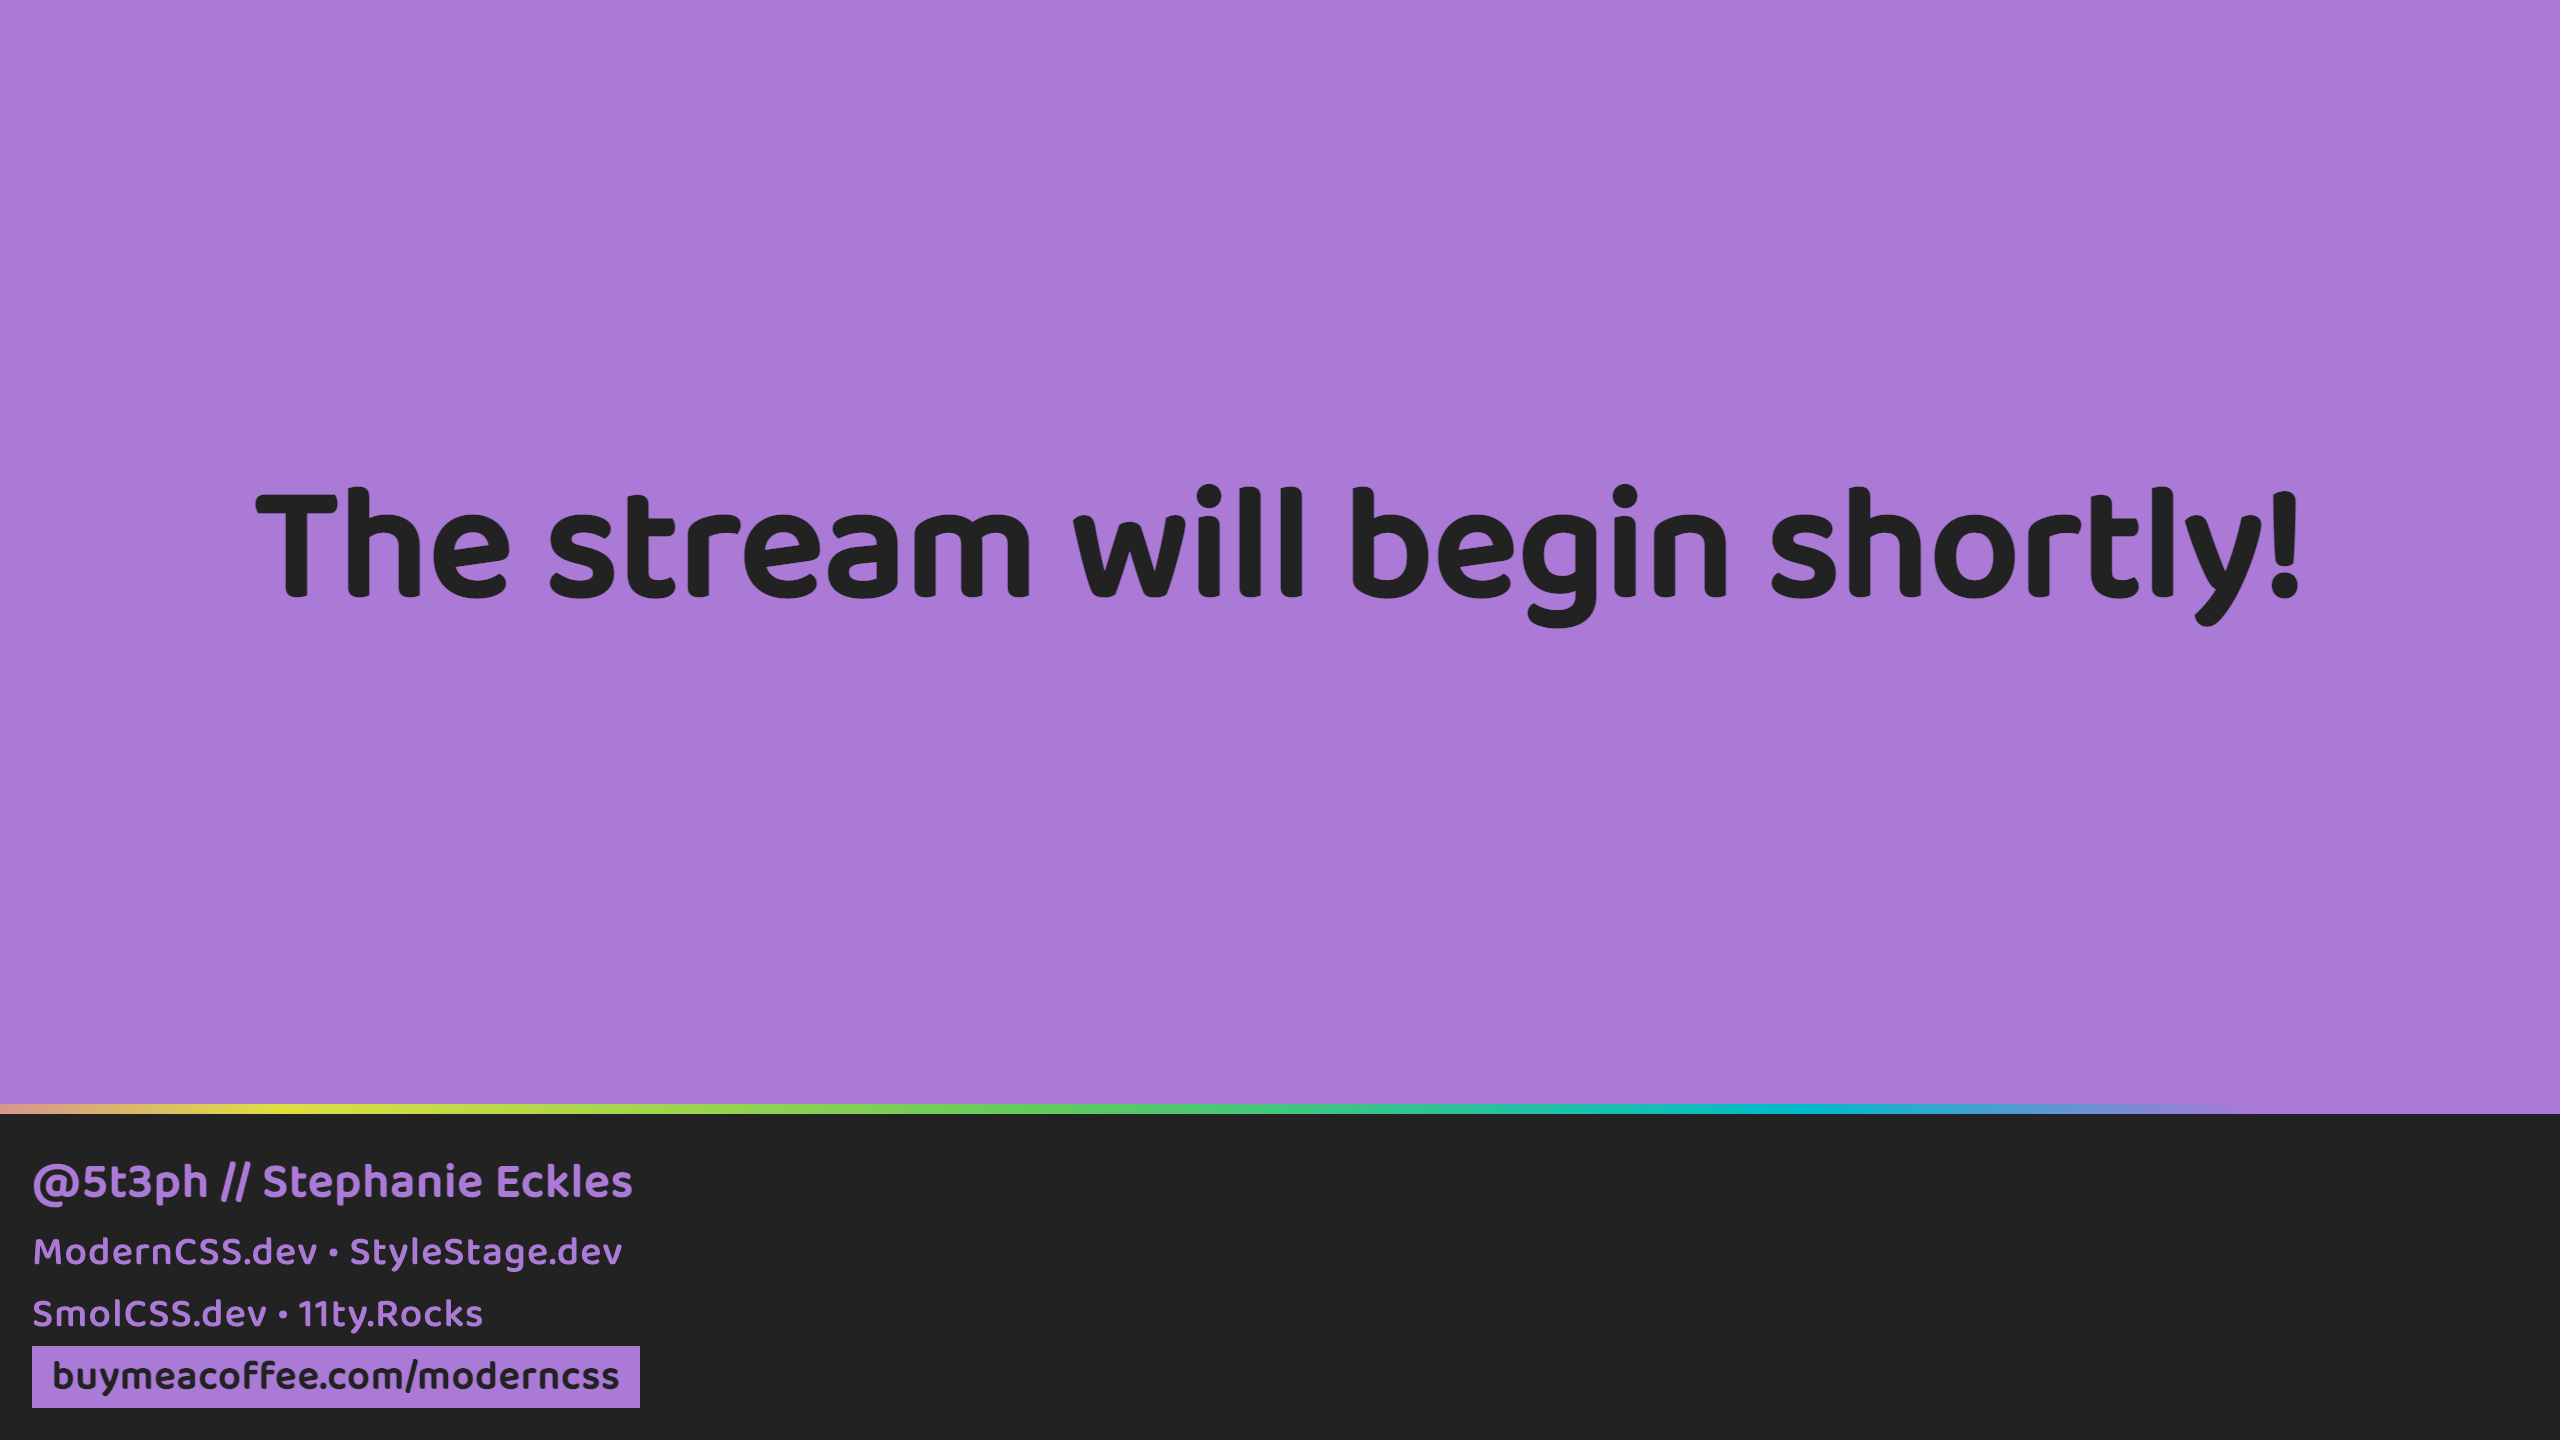
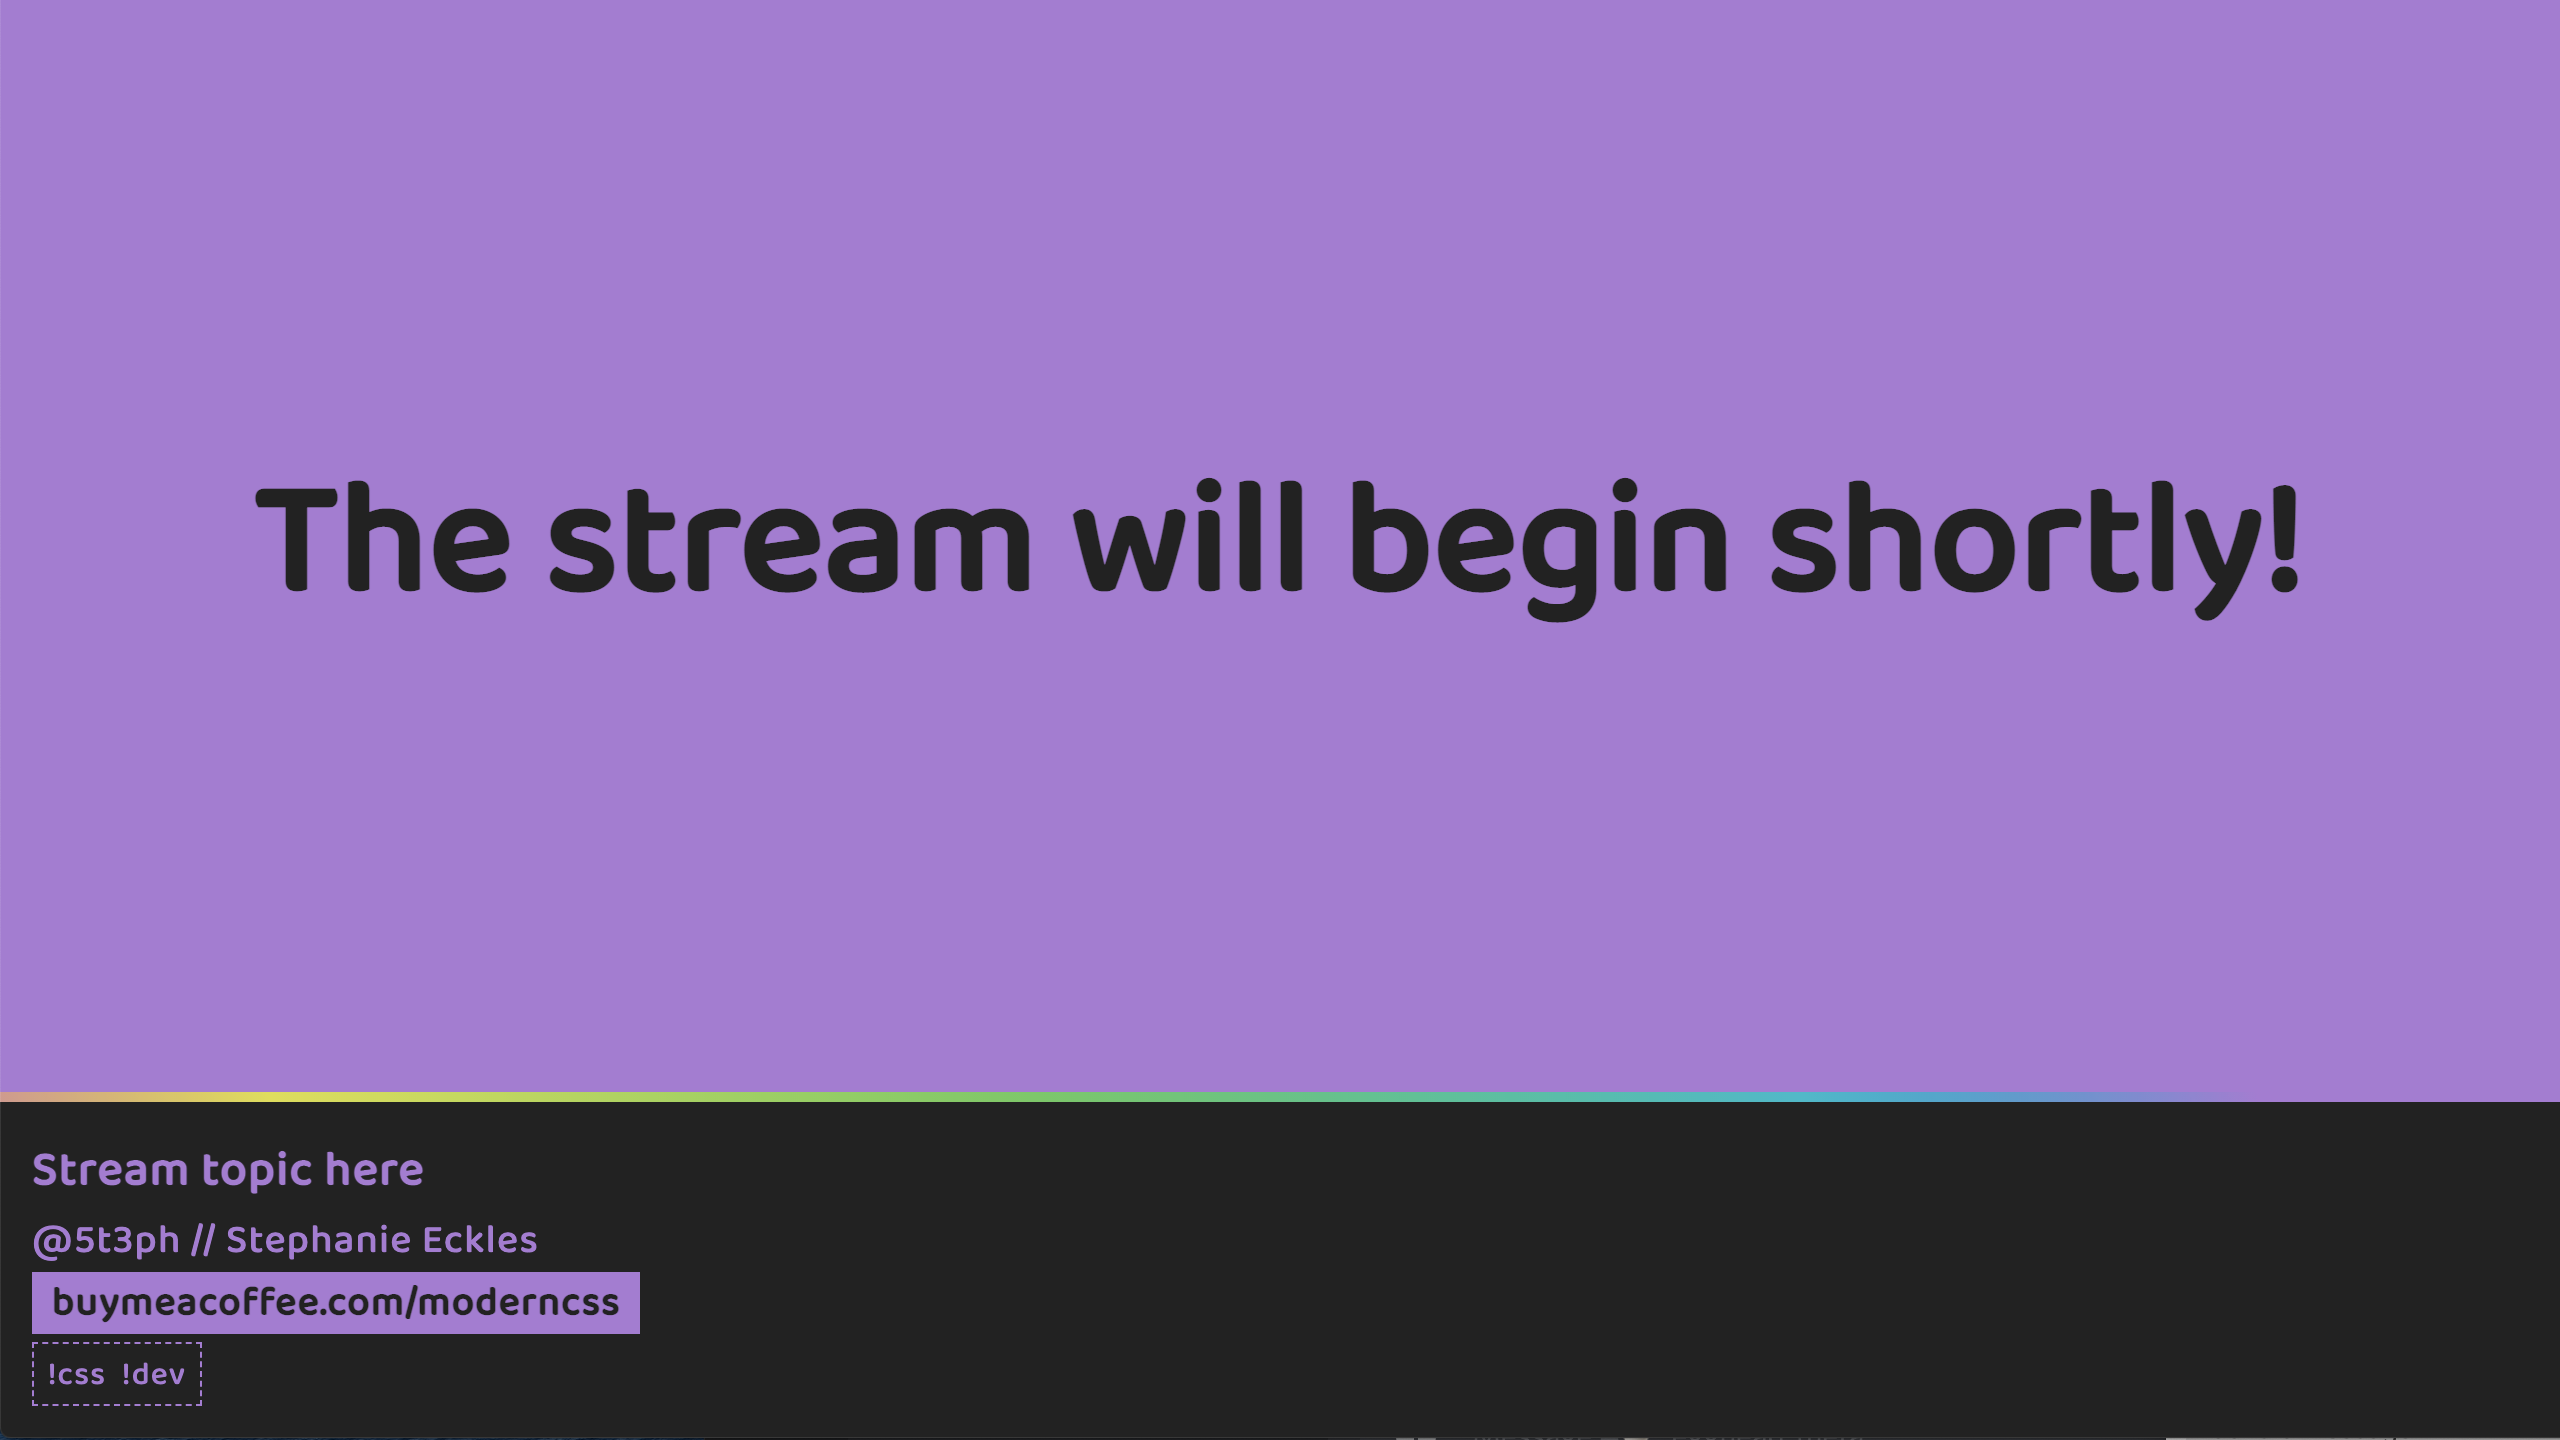
✨ Enable chat commands + slideshow template

diff --git a/src/sass/_commands.scss b/src/sass/_commands.scss
@@ -1,0 +1,130 @@
+@import url("https://fonts.googleapis.com/css2?family=Alegreya+Sans+SC:wght@900&display=swap");
+
+$t: rgba(255, 0, 0, 0);
+$w: rgba(255, 255, 255, 0.98);
+
+.command {
+  position: absolute;
+
+  opacity: 0;
+  transform: scale(0);
+  transition: all 300ms ease-in-out;
+  --c1: #ef548f;
+  --c2: #ef8b6d;
+  --c3: #cfef6b;
+  --c4: #3bf0c1;
+  --c5: #bb4af0;
+  --shine-angle: 15deg;
+  display: inline-grid;
+  grid-template-areas: "text";
+  place-items: center;
+  font-family: "Alegreya Sans SC", sans-serif;
+  font-weight: 900;
+  font-size: 8rem;
+  text-transform: uppercase;
+  color: var(--c5);
+
+  &.active {
+    opacity: 1;
+    transform: scale(1);
+  }
+
+  span {
+    background: linear-gradient(
+        var(--shine-angle),
+        $t 0%,
+        $t 35%,
+        $w 49.95%,
+        $w 50.15%,
+        $t 65%,
+        $t
+      ),
+      linear-gradient(
+        to right,
+        var(--c1),
+        var(--c2),
+        var(--c3),
+        var(--c4),
+        var(--c5)
+      );
+    -webkit-background-clip: text;
+    -webkit-text-fill-color: transparent;
+    -webkit-text-stroke: 0.01em rgba(0, 0, 0, 0.6);
+    // FUn fact - letter-spacing messes with the ability of the
+    // gradient to cover all the text :(
+  }
+
+  & > *,
+  &::before,
+  &::after {
+    grid-area: text;
+  }
+
+  &::before,
+  &::after {
+    content: attr(data-text);
+    color: #fff;
+  }
+
+  &::before {
+    -webkit-text-stroke: 0.21em white;
+    background: no-repeat linear-gradient(white, white) 15% 50% / 85% 50%;
+  }
+
+  &::after {
+    text-shadow: 0.07em 0.08em 0.05em rgba(0, 0, 0, 0.75),
+      -0.07em -0.05em 0.05em rgba(0, 0, 0, 0.75);
+    z-index: -2;
+  }
+}
+
+main .command {
+  /* Randomize position */
+  top: 3vh;
+  left: 4vw;
+
+  &:nth-of-type(odd) {
+    top: 50vh;
+    left: 5vw;
+  }
+
+  &:nth-of-type(3n) {
+    top: 23vh;
+    left: 60vw;
+  }
+
+  &:nth-of-type(3n + 1) {
+    top: 45vh;
+    left: 70vw;
+  }
+
+  &:nth-of-type(5n + 1) {
+    top: 8vh;
+    left: 40vw;
+  }
+
+  &:nth-of-type(7n) {
+    top: 65vh;
+    left: 47vw;
+  }
+
+  &:nth-of-type(7n + 1) {
+    top: 70vh;
+    left: 77vw;
+  }
+
+  &:nth-of-type(9n + 1) {
+    top: 30vh;
+    left: 20vw;
+  }
+}
+
+.sub-thanks {
+  top: 24vh !important;
+  left: 10vw !important;
+  font-size: 12rem !important;
+
+  &.active {
+    z-index: 1;
+  }
+}

diff --git a/src/sass/_slideshow.scss b/src/sass/_slideshow.scss
@@ -1,0 +1,58 @@
+.scene-slideshow {
+  background-color: var(--color-primary);
+  width: 100vw;
+
+  .slides,
+  .slides > ul {
+    height: 100%;
+  }
+
+  .slides > ul {
+    list-style: none;
+    margin: 0;
+    padding: 0;
+    display: grid;
+    grid-auto-flow: column;
+    grid-gap: 1rem;
+    grid-template-columns: unset;
+    overflow-x: auto;
+    scroll-snap-type: x mandatory;
+    -webkit-overflow-scrolling: touch;
+
+    h2 {
+      font-size: 5rem;
+      line-height: 1;
+      text-align: center;
+
+      + p {
+        text-align: center;
+      }
+    }
+
+    > li {
+      width: 100vw;
+      scroll-snap-align: center;
+      scroll-snap-stop: always;
+      display: grid;
+      grid-gap: 2rem;
+      place-content: center;
+      padding: 1rem 10vw;
+
+      p,
+      ul {
+        padding-left: 10vw;
+        padding-right: 10vw;
+        font-size: 4rem;
+        line-height: 1;
+      }
+
+      ul {
+        text-align: left;
+
+        li + li {
+          margin-top: 1em;
+        }
+      }
+    }
+  }
+}

diff --git a/src/_includes/comfy/commands.js b/src/_includes/comfy/commands.js
@@ -1,0 +1,29 @@
+const main = document.querySelector("main");
+
+const activateCommandNode = (node) => {
+  setTimeout(() => {
+    node.classList.add("active");
+  }, 50);
+
+  setTimeout(() => {
+    node.classList.remove("active");
+  }, 1500);
+};
+
+ComfyJS.onCommand = (_user, command, _message, _flags, _extra) => {
+  if (chatCommands.includes(command)) {
+    const originalNode = document.querySelector(`.command-${command}`);
+    const commandNode = originalNode.cloneNode(true);
+    main.appendChild(commandNode);
+
+    activateCommandNode(commandNode);
+  }
+};
+
+ComfyJS.onSub = () => {
+  const thanks = document.querySelector(`.sub-thanks`);
+
+  activateCommandNode(thanks);
+};
+
+ComfyJS.Init(twitchUsername);

diff --git a/src/sass/_layout.scss b/src/sass/_layout.scss
@@ -34,7 +34,7 @@ header {
     )
     1;
 
-  strong {
+  .cta {
     background-color: var(--color-primary);
     color: var(--color-surface);
     padding-right: 0.5em;
@@ -49,5 +49,20 @@ header {
     background-color: var(--color-surface);
     width: fit-content;
     padding: 1rem;
+  }
+
+  .commands {
+    width: fit-content;
+    list-style: none;
+    margin: 0.25rem 0 0;
+    padding: 0 0.15em;
+    border: 1px dashed;
+    display: flex;
+    flex-wrap: wrap;
+
+    li {
+      font-size: 1rem;
+      padding: 0.15em 0.25em;
+    }
   }
 }

diff --git a/src/_data/stream.js b/src/_data/stream.js
@@ -1,6 +1,8 @@
 module.exports = {
-  title: "@5t3ph // Stephanie Eckles",
+  twitchUsername: "5t3phDev",
+  title: "Stream topic here",
   // accepts HTML
-  description: "ModernCSS.dev • StyleStage.dev<br>SmolCSS.dev • 11ty.Rocks",
+  description: "@5t3ph // Stephanie Eckles",
   cta: "buymeacoffee.com/moderncss",
+  chatCommands: ["css", "dev"],
 };

diff --git a/.eleventy.js b/.eleventy.js
@@ -1,6 +1,10 @@
 module.exports = function (eleventyConfig) {
   eleventyConfig.addWatchTarget("./src/sass/");
 
+  eleventyConfig.addFilter("printJs", (js) => {
+    return JSON.stringify(js);
+  });
+
   return {
     dir: {
       input: "src",

diff --git a/src/sass/style.scss b/src/sass/style.scss
@@ -3,3 +3,5 @@
 @use "host";
 @use "preshow";
 @use "postshow";
+@use "slideshow";
+@use "commands";

diff --git a/README.md b/README.md
@@ -6,7 +6,7 @@ _If you're new to streaming (I was!) check out [this Learn With Jason episode](h
 
 ## Initial Stream Setup
 
-Customize the stream title, description, and CTA within `/src/_data/stream.js`.
+Customize the stream meta data including allowed chat commands within `/src/_data/stream.js`.
 
 **Run `npm start` to launch the scenes** at `http://localhost:8090/` (or customize the port within the package `watch:eleventy` script).
 
@@ -26,6 +26,14 @@ The basic colors are passed in from CSS custom properties defined in `_layout.sc
 
 > Please update the colors, particularly of the gradient border on the `header`, as the ones in this starter are unique to the [ModernCSS.dev](https://moderncss.dev) branding
 
+### Extra Resource: Slideshow
+
+Not an official scene, but a template you can use if you want to create a simple slideshow presentation as part of your stream.
+
+Uses the [CSS feature of scroll snapping](https://smolcss.dev/#smol-scroll-snap) to create a full-screen slideshow.
+
+To use, visit `http://localhost:8090/slideshow` and use horizontal scrolling. You will need to use display capture instead of browser capture so that you can manipulate the screen.
+
 ### Capture Areas
 
 In the `primary` scene, the main stream capture area is approximately 1030x550 when streaming at 1280x720 (and if your text content doesn't increase the height of the header area).
@@ -35,6 +43,35 @@ In the `host` scene, the center of the radial gradient is the capture area.
 For both of those scenes, there is an additional area intended for captions next to the title bar that will vary depending on your title/description/cta widths.
 
 > Try out [WebCaptioner](https://webcaptioner.com/) as a window source for stream captions. Optimal viewport size to best fit the capture area is 1792 (the width of a 15" Mac laptop) by 380px inner viewport height (tip: open DevTools to help size the viewport area)
+
+## Command Reponses
+
+Scripts and styles are included to handle chat commands and new subscriptions. These are received with the help of [ComfyJS](https://github.com/instafluff/ComfyJS).
+
+You must provide your `twitchUsername` within `/src/_data/stream.js` and at least one `chatCommand` for this to work.
+
+To modify behavior:
+
+- edit `_includes/comfy/commands.js` to alter the ComfyJS scripts
+- edit `sass/_commands.scss` to modify the appearance of command words
+
+Command words are given a gradient "sticker" style, and will be positioned randomly across the `main` area of the screen. They will come in with a zoom transition and then zoom back out of view after one second.
+
+If you keep the provided style, it's best to keep command words under 5 characters for the best effect.
+
+> Catch the last scene preview to see how the scene would look if chat mobbed the available commands
+
+#### Test Chat Commands
+
+Visit `https://www.twitch.tv/popout/[TWITCH USERNAME]/chat?popout=` and enter your chat command - example: `!css` - to test the display.
+
+### Edit Chat Commands
+
+If you want to enable chat commands, add those within the `stream.js`. Each command will be automatically listed below the CTA in the `header`.
+
+### New Subscription "Thanks!"
+
+In the same style of the commands but larger, a `THANKS!` message will zoom in when you receive a new subscription, and zoom back out like the commands. _Scene preview available below_.
 
 ## Scene Previews
 
@@ -49,3 +86,9 @@ For both of those scenes, there is an additional area intended for captions next
 
 **postshow**
 ![preshow](scene-previews/postshow.png)
+
+**new subscription reaction**
+![new sub thanks](scene-previews/sub-thanks.png)
+
+**command demo**
+![commands](scene-previews/commands.png)
